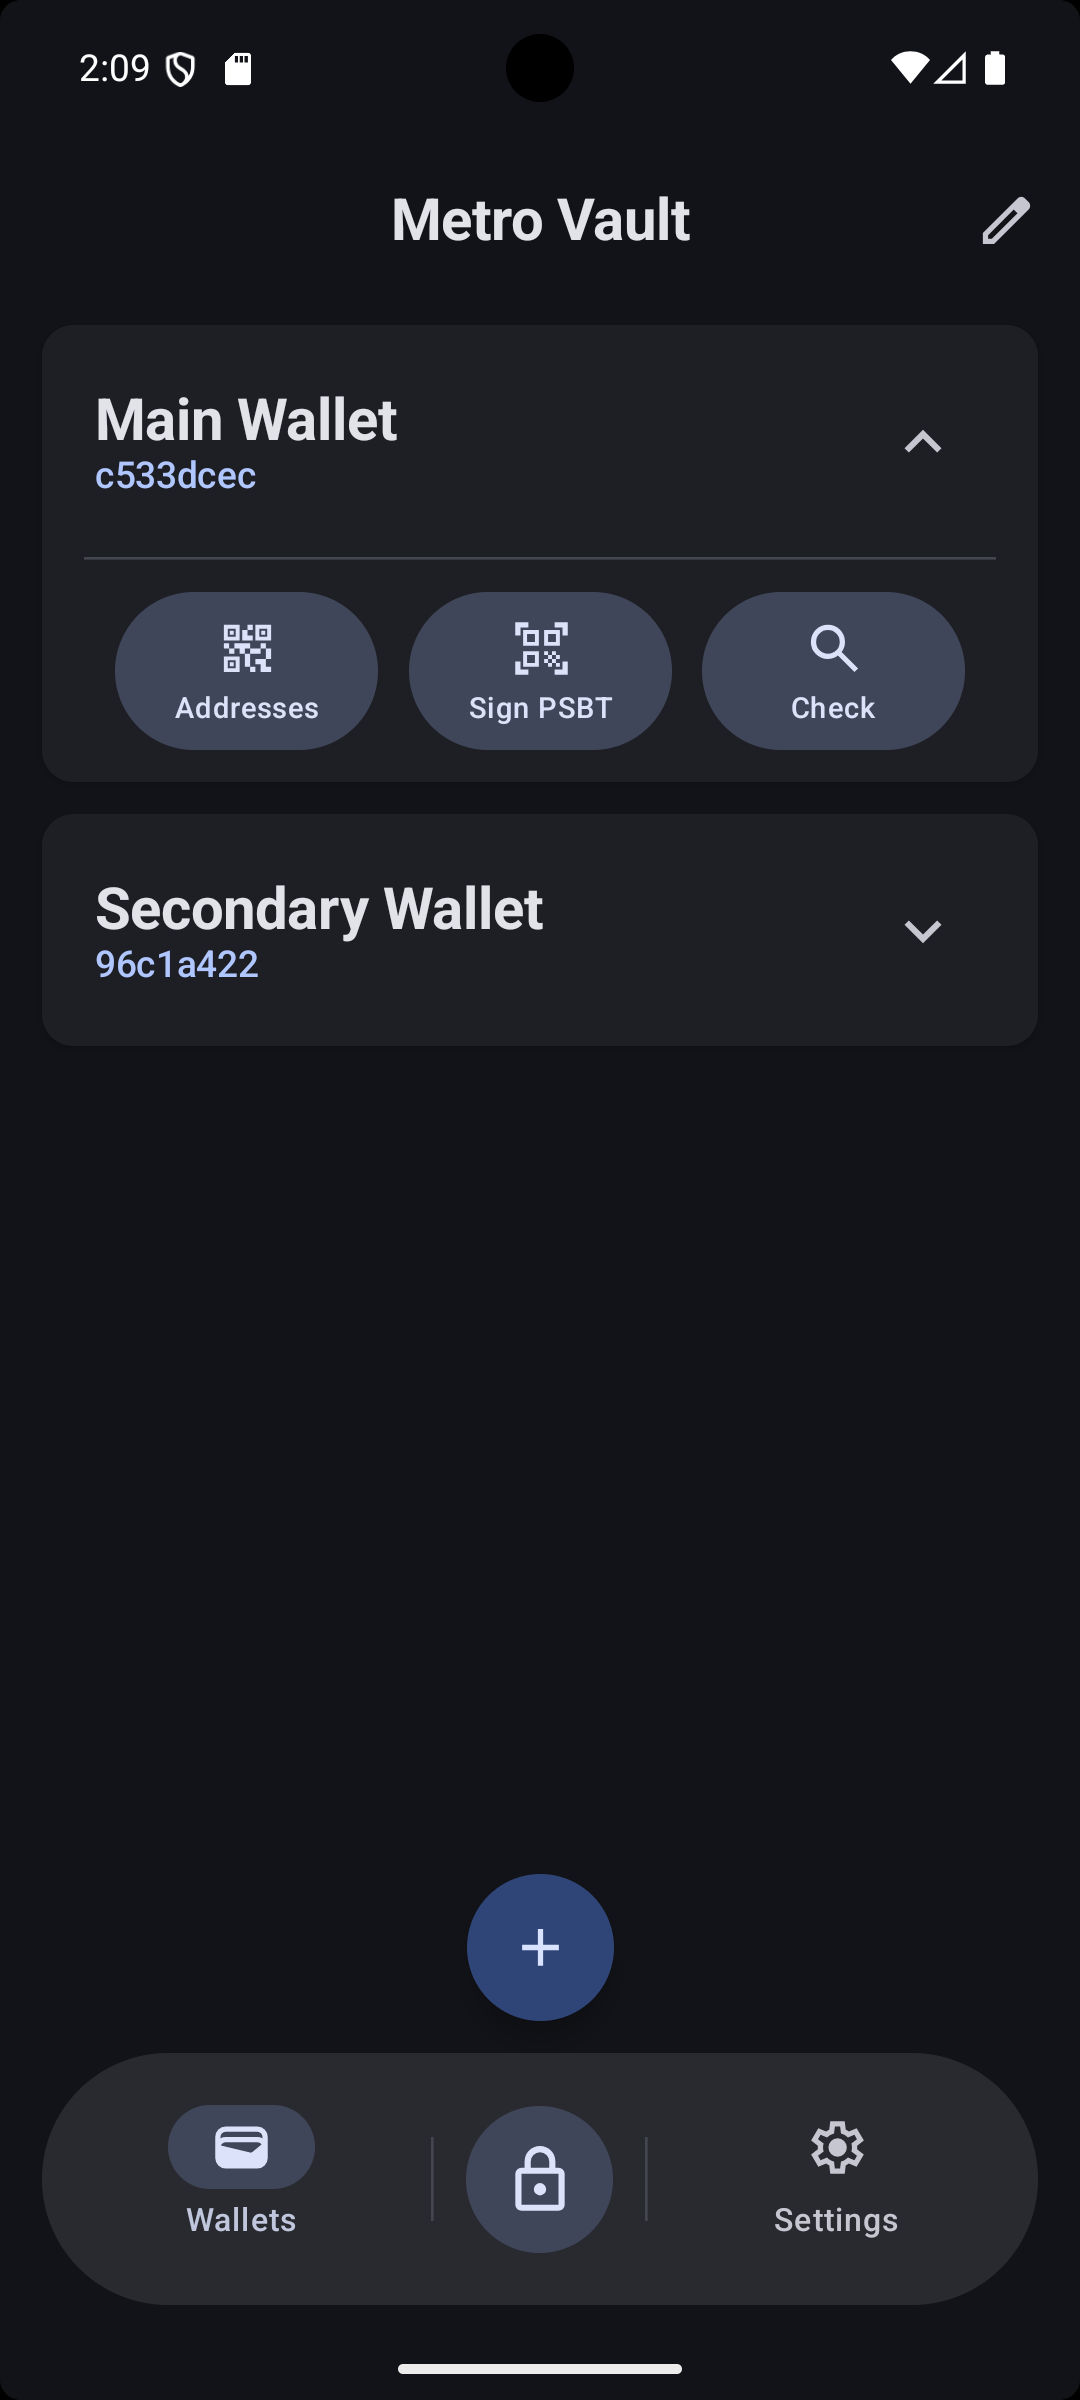
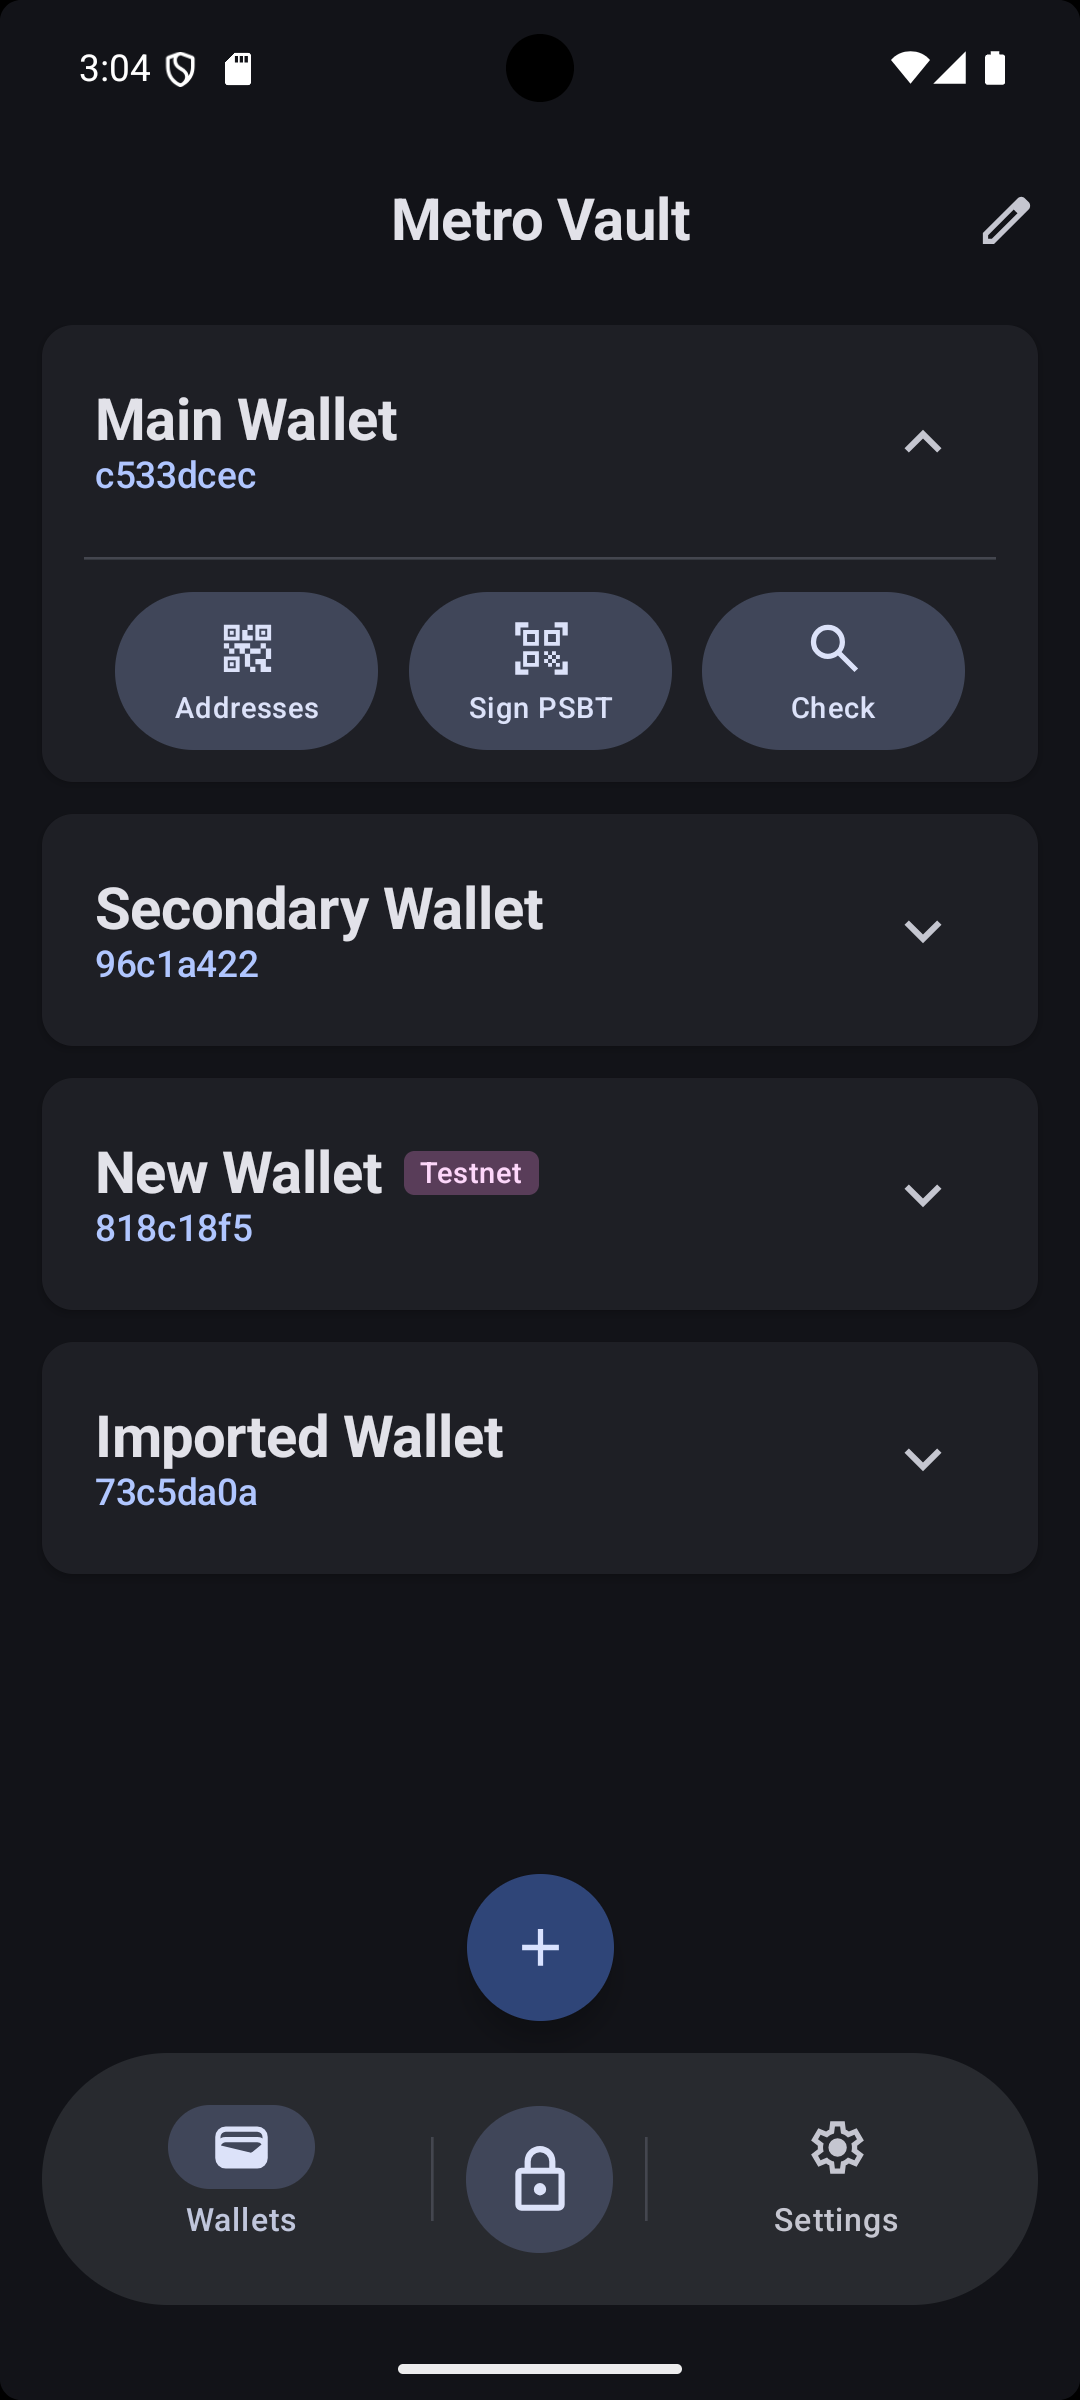
updated files to reflect testnet4 support in the app

Changed region(s): [[0.0917, 0.4688, 0.5194, 0.5312], [0.0917, 0.5938, 0.4583, 0.625], [0.1222, 0.0, 0.1528, 0.0312]]

diff --git a/README.md b/README.md
@@ -26,7 +26,7 @@
 
 **MetroVault** is a secure, offline Android signing device application designed to turn your Android phone into a cold storage hardware wallet. Built with modern Android technologies and a custom Kotlin Bitcoin library, it prioritizes security, simplicity, and user experience.
 
-## 🎯 Why MetroVault?
+## Why MetroVault?
 
 The primary goal of MetroVault is to provide a completely **offline** environment for managing Bitcoin private keys. It acts as a signer for your watch-only wallets (like BlueWallet, Sparrow, or Electrum) running on online devices. By keeping your keys on a device that never connects to the internet (air-gapped), you significantly reduce the attack surface for theft and malware.
 
@@ -50,8 +50,8 @@ The primary goal of MetroVault is to provide a completely **offline** environmen
 
 ### 💼 Wallet Management
 - **Multi-Type Support**: Native SegWit (`bc1q...`), Taproot (`bc1p...`), Nested SegWit (`3...`), Legacy (`1...`)
-- **BIP-39 Mnemonics**: Standard 12 or 24-word seed phrases
 - **Passphrase Support**: Optional BIP-39 passphrase with choice to save locally or keep in session memory only
+- **Testnet4 Support**: Import or create Testnet wallet for testing and development
 - **Custom Entropy**: Add your own randomness via dice rolls or coin flips
 - **Mnemonic Tools**: Built-in checksum calculator and validator
 - **BIP-85 Derivation**: Generate child seeds (12/24 words) and secure passwords from your master seed
